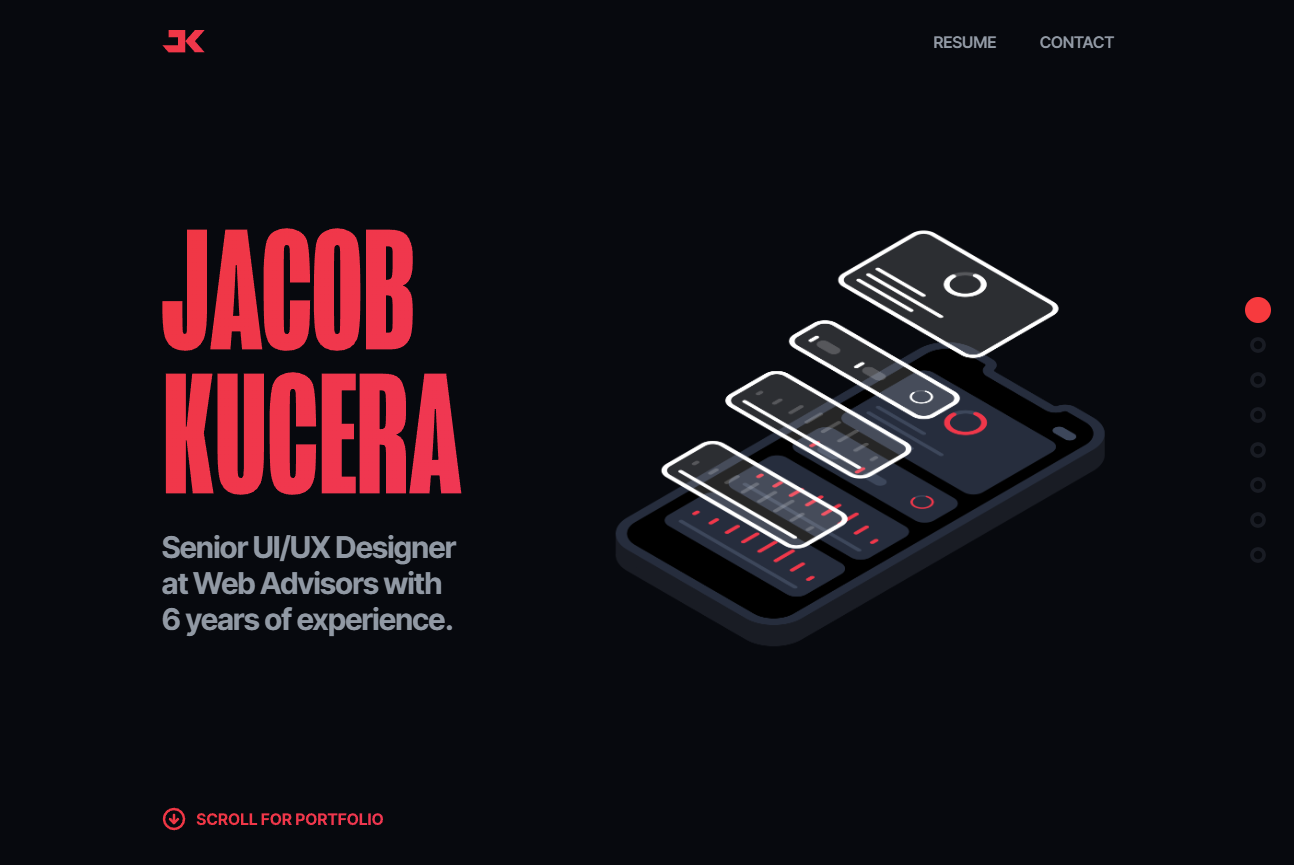
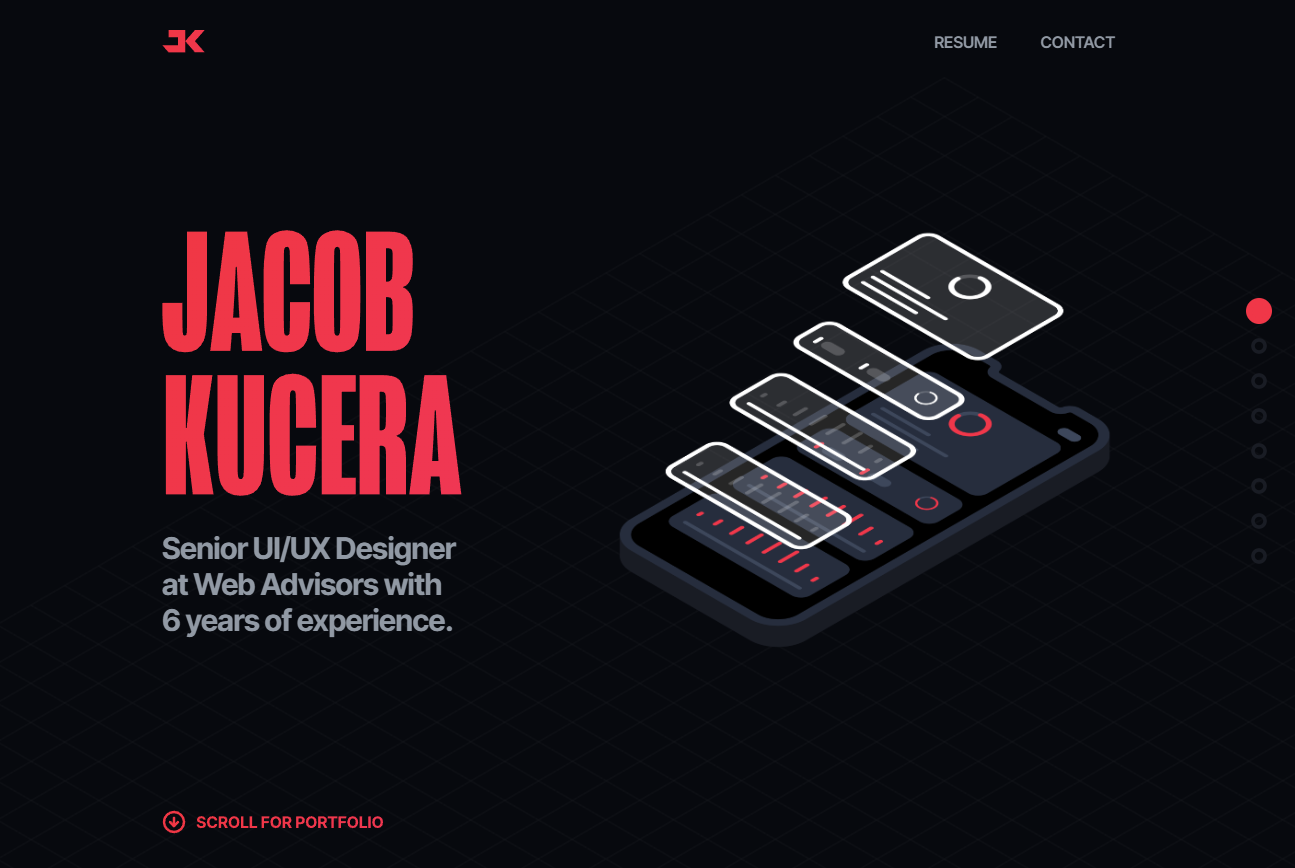
fixes

diff --git a/styles.css b/styles.css
@@ -43,12 +43,12 @@ img {
 	left: 0;
 	right: 0;
 	bottom: 0;
-	background: url(images/bg.png) center fixed !important;
+	background: url(images/bg.png) no-repeat center center fixed;
 	background-size: cover;
 	opacity: 0.7;
 	-moz-appearance: none;
     -webkit-appearance: none;
-    appearance: none;
+	appearance: none;
 }
 
 #section1 {
